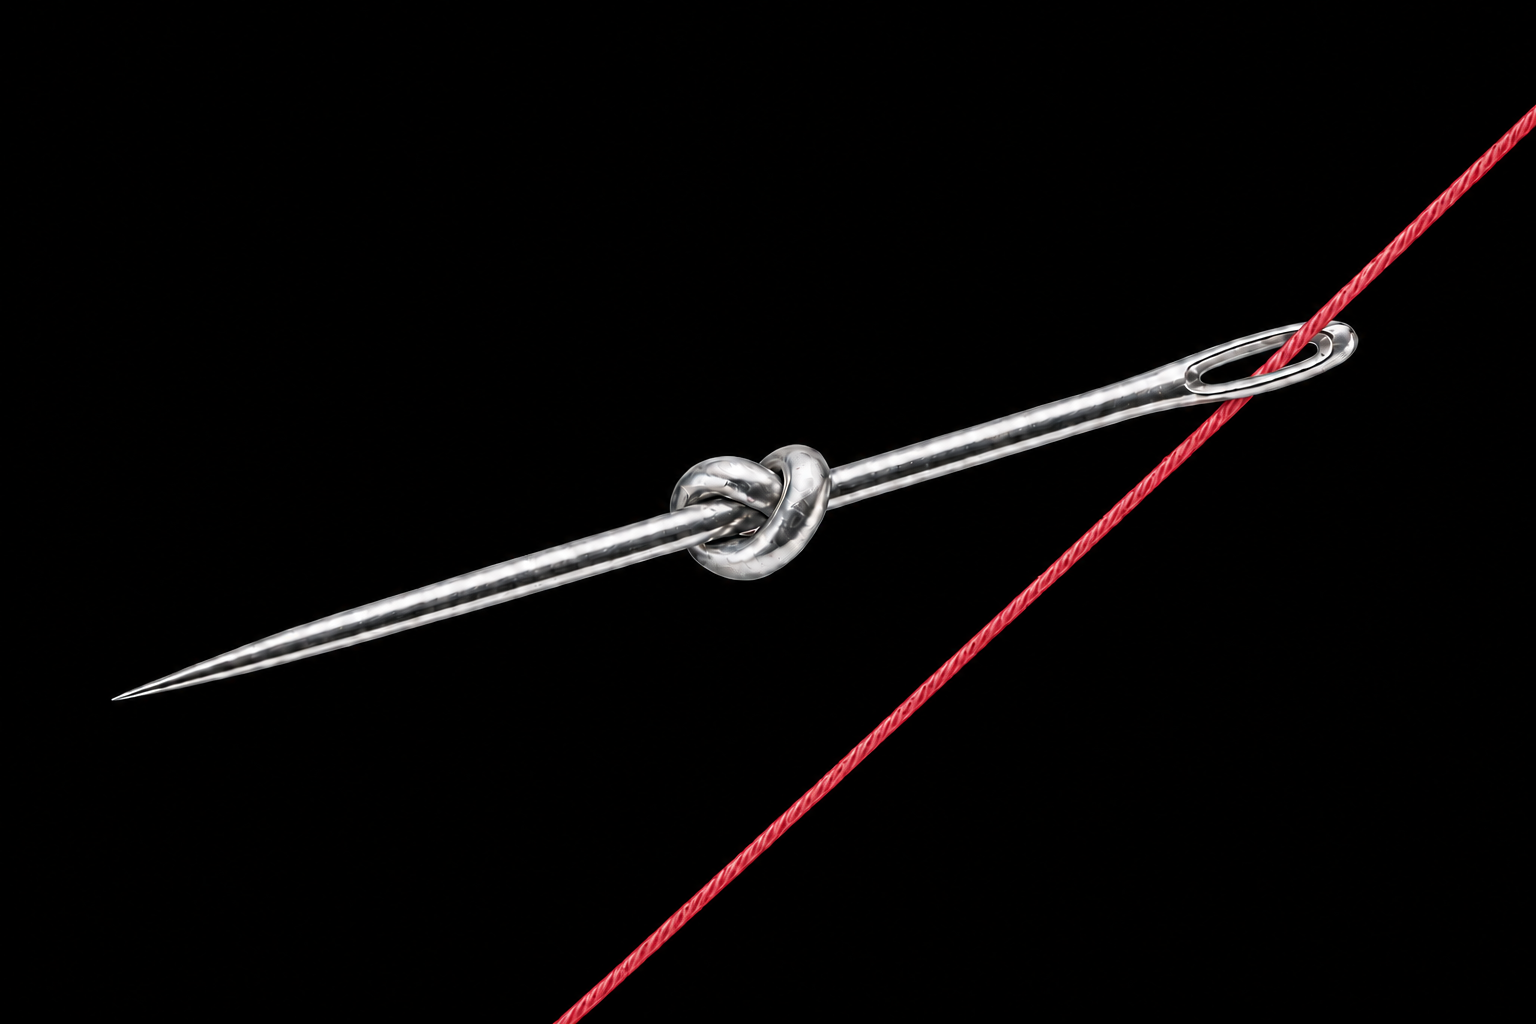
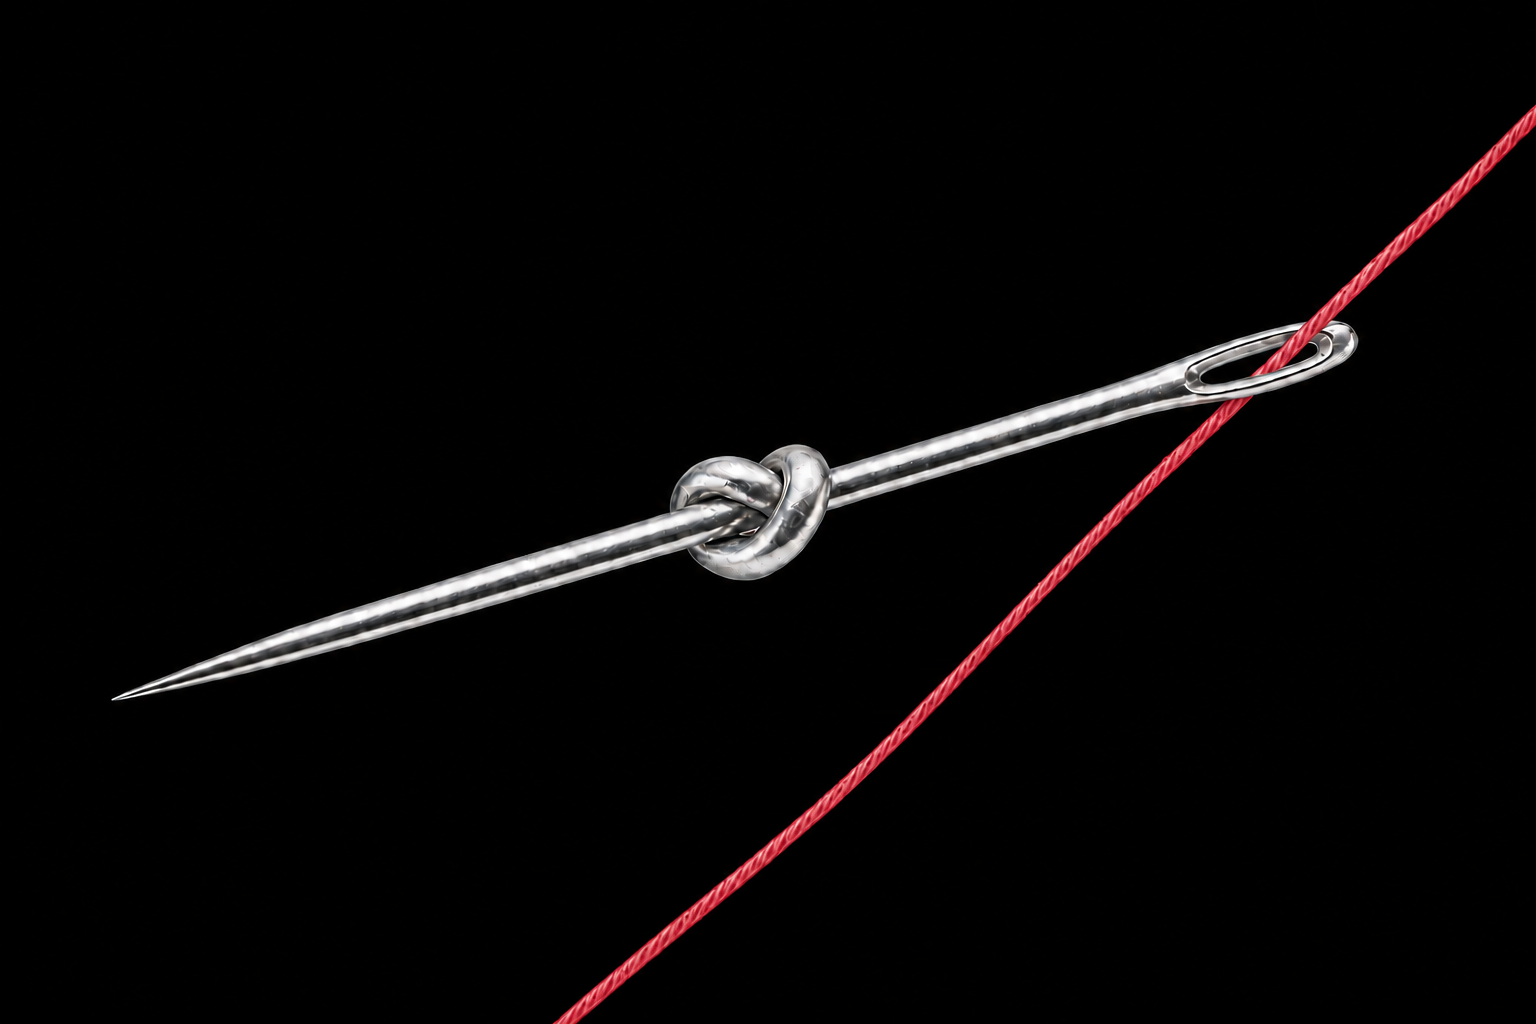
hero: give the thread a subtle natural sag
Per Vishal: the perfectly straight thread looked unnatural. The
retoucher extracted the real thread band, inpainted the background,
and warped the band along a Hann-window sag (20px max on the long
span, 2.5px on the short, ~3px at display size), preserving the
thread's twist texture and soft edges. The eye crossing, needle,
knot, and background are pixel-identical to the originals. Both
themes treated as twins; still lossless WebP at 1536x1024. Retouch
script kept in scripts/ for future re-tuning (dev-only, vercelignored).

diff --git a/scripts/retouch_thread.py b/scripts/retouch_thread.py
@@ -1,0 +1,160 @@
+#!/usr/bin/env python3
+"""Retouch: give the hero needle-thread a subtle natural sag.
+
+Method (photo-faithful, no synthetic stroke):
+  1. Fit the straight thread centerline by chroma (coral is the only
+     saturated hue in the frame).
+  2. Find the eye crossing (solid metal near the line) -> protected zone,
+     zero displacement there so metal/thread overlap is never touched.
+  3. Inpaint the background beneath a feathered band around the thread
+     (row-wise linear interpolation across the smooth gradient).
+  4. Vertically warp the ORIGINAL thread band down by a smooth Hann-window
+     sag per span (zero shift + zero slope at borders and at the eye), then
+     composite over the inpainted background. Preserves the real twist
+     texture and soft cross-section exactly.
+
+Tuning: SAG_LONG / SAG_SHORT below (px of max sag at 1536px width; the
+image displays at ~235px, so display sag = value * 0.153).
+"""
+import numpy as np
+from PIL import Image
+
+WT = "/Users/idyeah.studio/Documents/Business/idyeah.studio/Brand Identity/Website/website/.claude/worktrees/agent-a6aff0d4edacf40d3"
+
+SAG_LONG = 20.0   # max sag (px) for the long span: bottom edge -> eye
+SAG_SHORT = 2.5   # max sag (px) for the short span: eye -> right edge
+
+CFG = {
+    "needle-light": dict(bw=19.0, feather=5.0, metal_lum=(55, 235)),
+    "needle-dark":  dict(bw=22.0, feather=5.0, metal_lum=(55, 999)),
+}
+
+
+def process(name, cfg, sag_long=SAG_LONG, sag_short=SAG_SHORT, out_suffix=""):
+    src = f"{WT}/assets/idyeah/{name}.webp"
+    img = Image.open(src).convert("RGB")
+    a = np.asarray(img).astype(np.float64)
+    H, W = a.shape[:2]
+    R, G, B = a[..., 0], a[..., 1], a[..., 2]
+    chroma = R - np.maximum(G, B)
+    tmask = chroma > 40
+
+    # --- centerline fit ---
+    ys, xs = np.nonzero(tmask)
+    x0t, x1t = xs.min(), xs.max()
+    cols_x, cols_y, cols_n = [], [], []
+    for x in range(x0t, x1t + 1):
+        yy = np.nonzero(tmask[:, x])[0]
+        if len(yy):
+            w = chroma[yy, x]
+            cols_x.append(x); cols_y.append((yy * w).sum() / w.sum()); cols_n.append(len(yy))
+    cols_x = np.array(cols_x); cols_y = np.array(cols_y); cols_n = np.array(cols_n, float)
+    good = cols_n >= np.median(cols_n) * 0.6
+    m, b = np.polyfit(cols_x[good], cols_y[good], 1)
+
+    # --- protected zone: solid metal within 45px of line ---
+    mx = a.max(axis=2); mn = a.min(axis=2); lum = a.mean(axis=2)
+    lo, hi = cfg["metal_lum"]
+    metal = ((mx - mn) < 30) & (lum > lo) & (lum < hi)
+    prot = []
+    for x in range(x0t, x1t + 1):
+        yline = m * x + b
+        y_lo = max(0, int(yline - 45)); y_hi = min(H, int(yline + 46))
+        if metal[y_lo:y_hi, x].sum() >= 5:
+            prot.append(x)
+    pz0, pz1 = min(prot) - 25, max(prot) + 25
+    print(f"{name}: line y={m:.5f}x+{b:.2f}; thread x {x0t}-{x1t}; protected {pz0}-{pz1}")
+
+    # --- displacement per column (downward positive) ---
+    d = np.zeros(W)
+    xa0, xa1 = float(x0t), float(pz0)          # long span (lower left)
+    xb0, xb1 = float(pz1), float(x1t)          # short span (upper right)
+    xs_all = np.arange(W, dtype=float)
+    ta = (xs_all - xa0) / (xa1 - xa0)
+    in_a = (ta > 0) & (ta < 1)
+    d[in_a] = sag_long * np.sin(np.pi * ta[in_a]) ** 2
+    if xb1 > xb0 + 4:
+        tb = (xs_all - xb0) / (xb1 - xb0)
+        in_b = (tb > 0) & (tb < 1)
+        d[in_b] = sag_short * np.sin(np.pi * tb[in_b]) ** 2
+
+    bw, f = cfg["bw"], cfg["feather"]
+    out = a.copy()
+
+    # --- per-column: inpaint bg under band, then composite warped band ---
+    # Precompute row-wise inpainting on a bg copy, restricted to processed cols.
+    proc_cols = [x for x in range(x0t, x1t + 1) if not (pz0 <= x <= pz1)]
+    # replace mask: band around ORIGINAL line, plus room below for sag
+    rep = np.zeros((H, W), bool)
+    for x in proc_cols:
+        yc = m * x + b
+        y_lo = max(0, int(np.floor(yc - bw - 1)))
+        y_hi = min(H, int(np.ceil(yc + bw + d[x] + 2)))
+        rep[y_lo:y_hi, x] = True
+
+    bg = a.copy()
+    guard = 3
+    # pixels unfit as interpolation sources: replaced band, any thread tint, metal
+    badsrc = rep | (chroma > 12) | metal
+    for y in range(H):
+        row = rep[y]
+        if not row.any():
+            continue
+        idx = np.nonzero(row)[0]
+        # contiguous runs
+        splits = np.nonzero(np.diff(idx) > 1)[0]
+        starts = np.concatenate(([0], splits + 1))
+        ends = np.concatenate((splits, [len(idx) - 1]))
+        for s, e in zip(starts, ends):
+            xl, xr = idx[s], idx[e]
+            xl_s, xr_s = xl - guard, xr + guard
+            for _ in range(40):                     # walk past unfit sources
+                if xl_s < 0 or not badsrc[y, xl_s]:
+                    break
+                xl_s -= 1
+            for _ in range(40):
+                if xr_s >= W or not badsrc[y, xr_s]:
+                    break
+                xr_s += 1
+            has_l = xl_s >= 0 and not badsrc[y, xl_s]
+            has_r = xr_s < W and not badsrc[y, xr_s]
+            if has_l and has_r:
+                cl, cr = a[y, xl_s], a[y, xr_s]
+                t = (np.arange(xl, xr + 1) - xl_s) / (xr_s - xl_s)
+                bg[y, xl:xr + 1] = cl[None, :] * (1 - t[:, None]) + cr[None, :] * t[:, None]
+            elif has_l:
+                bg[y, xl:xr + 1] = a[y, xl_s]
+            elif has_r:
+                bg[y, xl:xr + 1] = a[y, xr_s]
+
+    # feathered band alpha profile
+    def band_alpha(dy):
+        ad = np.abs(dy)
+        aa = np.clip((bw - ad) / f, 0.0, 1.0)
+        return aa * aa * (3 - 2 * aa)  # smoothstep
+
+    for x in proc_cols:
+        yc = m * x + b
+        dx = d[x]
+        y_lo = max(0, int(np.floor(yc - bw - 1)))          # cover old band top too
+        y_hi = min(H, int(np.ceil(yc + bw + dx + 2)))
+        yy = np.arange(y_lo, y_hi)
+        src_y = yy - dx                     # sample original at shifted pos
+        alpha = band_alpha(src_y - yc)
+        # bilinear sample original column
+        sy0 = np.clip(np.floor(src_y).astype(int), 0, H - 1)
+        sy1 = np.clip(sy0 + 1, 0, H - 1)
+        wgt = (src_y - np.floor(src_y))[:, None]
+        col = a[sy0, x] * (1 - wgt) + a[sy1, x] * wgt
+        out[y_lo:y_hi, x] = bg[y_lo:y_hi, x] * (1 - alpha[:, None]) + col * alpha[:, None]
+
+    res = Image.fromarray(np.clip(np.round(out), 0, 255).astype(np.uint8))
+    dst = f"{WT}/assets/idyeah/{name}{out_suffix}.webp"
+    res.save(dst, lossless=True, quality=100, method=6)
+    print(f"  saved {dst}")
+    return dst
+
+
+if __name__ == "__main__":
+    for name, cfg in CFG.items():
+        process(name, cfg)
